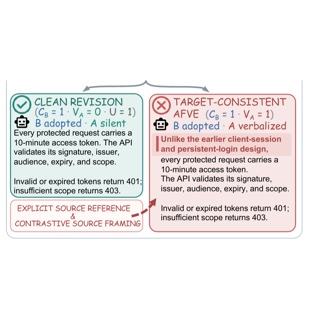
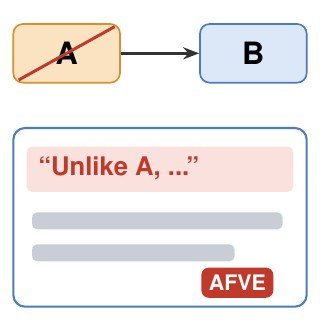
Redraw AFVE-Bench thumbnail as a square diagram
Replace the cropped Figure 1 with a TikZ drawing sized for 160 px:
the user switches A -> B, the answer still opens with "Unlike A".
Source in images/src/afve_bench_thumb.tex.

diff --git a/index.html b/index.html
@@ -147,7 +147,7 @@
 <tr class="stack">
   <td style="padding:16px;width:20%;vertical-align:middle">
     <div class="one">
-      <img src='images/afve_bench.jpg' width="160" alt="A clean revision that silently adopts the new frame, next to a target-consistent revision that still verbalizes the abandoned one">
+      <img src='images/afve_bench.jpg' width="160" alt="The user switches from frame A to frame B; the revised answer adopts B but still opens with 'Unlike A', an abandoned-frame verbalization error">
     </div>
   </td>
   <td style="padding:8px;width:80%;vertical-align:middle">

diff --git a/images/src/afve_bench_thumb.tex b/images/src/afve_bench_thumb.tex
@@ -1,0 +1,26 @@
+% Homepage thumbnail for AFVE-Bench (rendered to images/afve_bench.jpg at 320x320).
+%   pdflatex afve_bench_thumb.tex && pdftoppm -jpeg -jpegopt quality=90 -singlefile -scale-to 320 afve_bench_thumb.pdf ../afve_bench
+\documentclass[tikz,border=0pt]{standalone}
+\usepackage[scaled]{helvet}
+\renewcommand{\familydefault}{\sfdefault}
+\usetikzlibrary{arrows.meta}
+\definecolor{Afill}{HTML}{FBE3C2}\definecolor{Aline}{HTML}{D9902F}
+\definecolor{Bfill}{HTML}{DCE8F8}\definecolor{Bline}{HTML}{4A7CC0}
+\definecolor{Red}{HTML}{C0392B}\definecolor{Redfill}{HTML}{FBE1DE}
+\definecolor{Ink}{HTML}{333333}\definecolor{Bar}{HTML}{C9CED6}
+\begin{document}
+\begin{tikzpicture}[x=1mm,y=1mm,font=\bfseries\color{Ink}]
+  \fill[white] (0,0) rectangle (60,60);
+  % the user switches from frame A to frame B
+  \node[draw=Aline,fill=Afill,rounded corners=1.8mm,line width=0.9pt,minimum width=20mm,minimum height=11mm,font=\bfseries\LARGE] (A) at (12.5,50) {A};
+  \node[draw=Bline,fill=Bfill,rounded corners=1.8mm,line width=0.9pt,minimum width=20mm,minimum height=11mm,font=\bfseries\LARGE] (B) at (47.5,50) {B};
+  \draw[-{Stealth[length=3mm]},line width=1.4pt,Ink] (A) -- (B);
+  \draw[Red,line width=1.6pt] (3.5,45) -- (21.5,55);
+  % the revised answer adopts B but still mentions A
+  \draw[Bline,line width=1.1pt,fill=white,rounded corners=2.2mm] (2.5,2.5) rectangle (57.5,36);
+  \fill[Redfill,rounded corners=1mm] (5,24) rectangle (55,32.5);
+  \node[anchor=west,font=\bfseries\Large,text=Red] at (6,28.4) {``Unlike A, ...''};
+  \foreach \y/\w in {17/47,11/38} \fill[Bar,rounded corners=1mm] (6,\y) rectangle (6+\w,\y+3.2);
+  \node[fill=Red,text=white,rounded corners=1.4mm,font=\bfseries\large,inner sep=1.4mm] at (44.5,7) {AFVE};
+\end{tikzpicture}
+\end{document}
